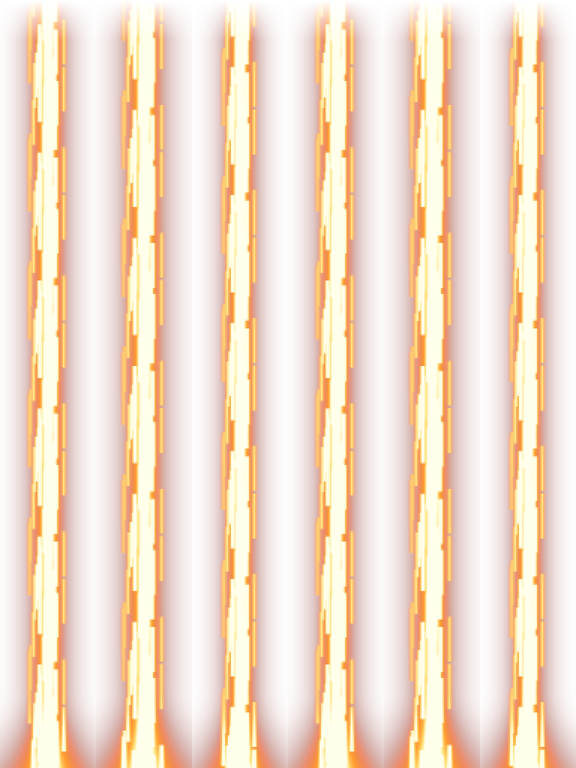
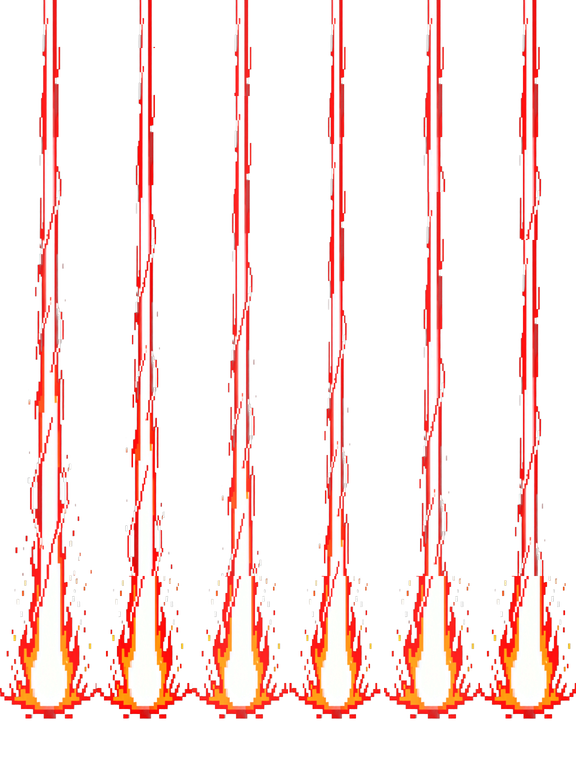
Beam art: bake the Hawkes Gen charge glow, column and impact burst
Same cells, pivots and frame counts as the interim sheets, so no data or timing changes.
fx_sheets.py: keep a .sheet.json.meta guid on re-bake (it was truncated before being read),
and the column's crackle no longer wraps its splash up the beam.

diff --git a/Tools/Art/fx_sheets.py b/Tools/Art/fx_sheets.py
@@ -127,8 +127,15 @@ def made(kind, rgba, count, seed):
             alpha = 0.55 + 0.45 * min(1.0, t / 0.5)
             frames.append(scaled_about(img, s, s * (0.9 + 0.1 * rng.random()), (w / 2, h), alpha))
         elif kind == "column":
-            # Crackle: the beam's texture scrolls downward, its width breathes, its brightness flickers.
-            arr = np.roll(rgba, int(i * h / count * 0.5), axis=0).astype(np.float32)
+            # Crackle: the shaft's texture scrolls downward, its width breathes, its brightness flickers.
+            # The bottom quarter (the splash where it lands) stays put; the shaft slides down under it and its
+            # own top rows refill the top, so nothing wide (a tapering beam's foot) wraps up to the sky.
+            foot = int(h * 0.75)
+            d = int(i * foot / count * 0.5)
+            arr = rgba.astype(np.float32).copy()
+            if d:
+                arr[d:foot] = rgba[:foot - d]
+                arr[:d] = rgba[:d]
             sx = 0.85 + 0.3 * rng.random()
             frame = Image.fromarray(arr.astype(np.uint8), "RGBA")
             frames.append(scaled_about(frame, sx, 1.0, (w / 2, h), 0.85 + 0.15 * rng.random()))
@@ -239,8 +246,9 @@ def pack(frames, clip, cell_w, cell_h, out_png, ppu, pivot):
         f.write("\n")
     write_meta(out_png + ".meta", cells, round(ppu, 3), pivot)
     side = os.path.splitext(out_png)[0] + ".sheet.json.meta"
+    guid = existing_guid(side)  # read before "w" truncates it
     with open(side, "w", encoding="utf-8", newline="\n") as f:
-        f.write(TEXT_META.format(guid=existing_guid(side)))
+        f.write(TEXT_META.format(guid=guid))
     return tex_w, tex_h
 
 
